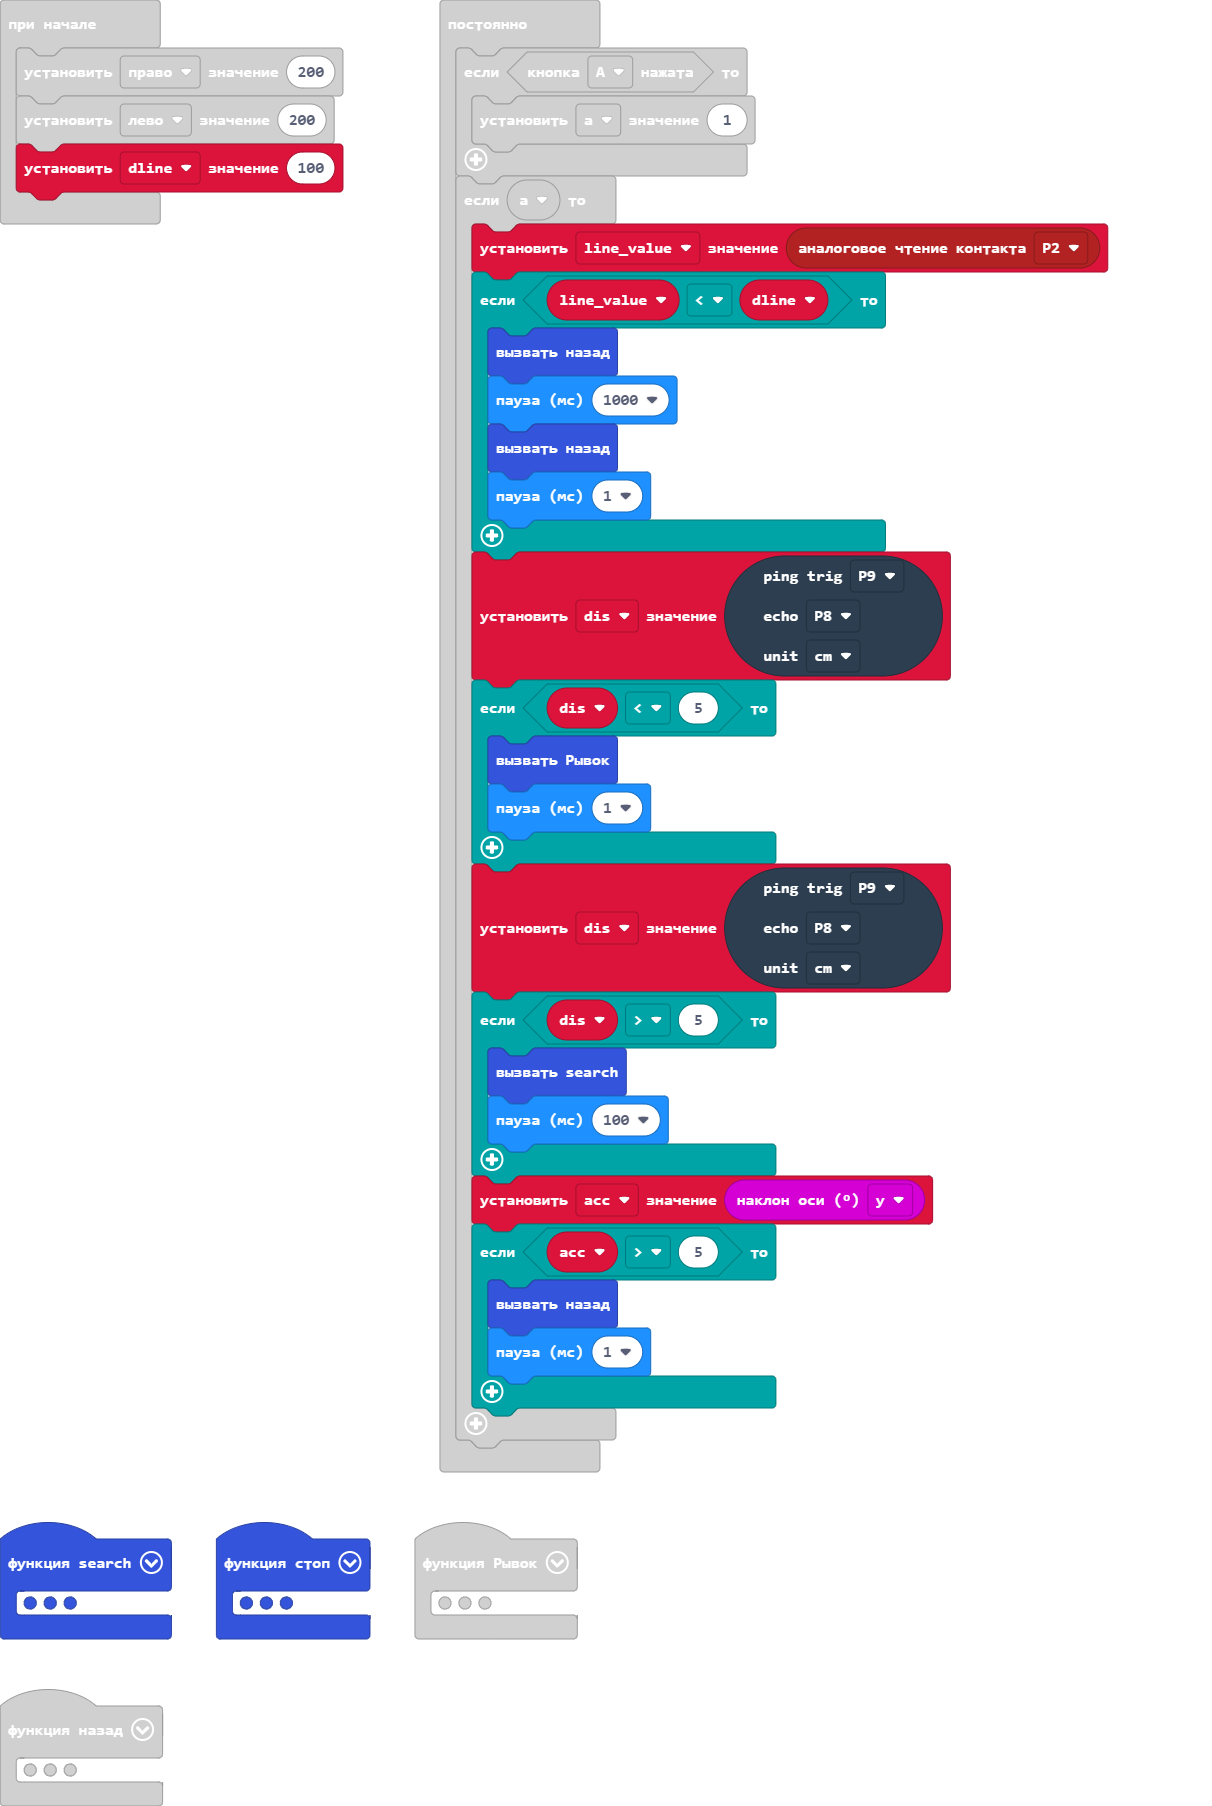
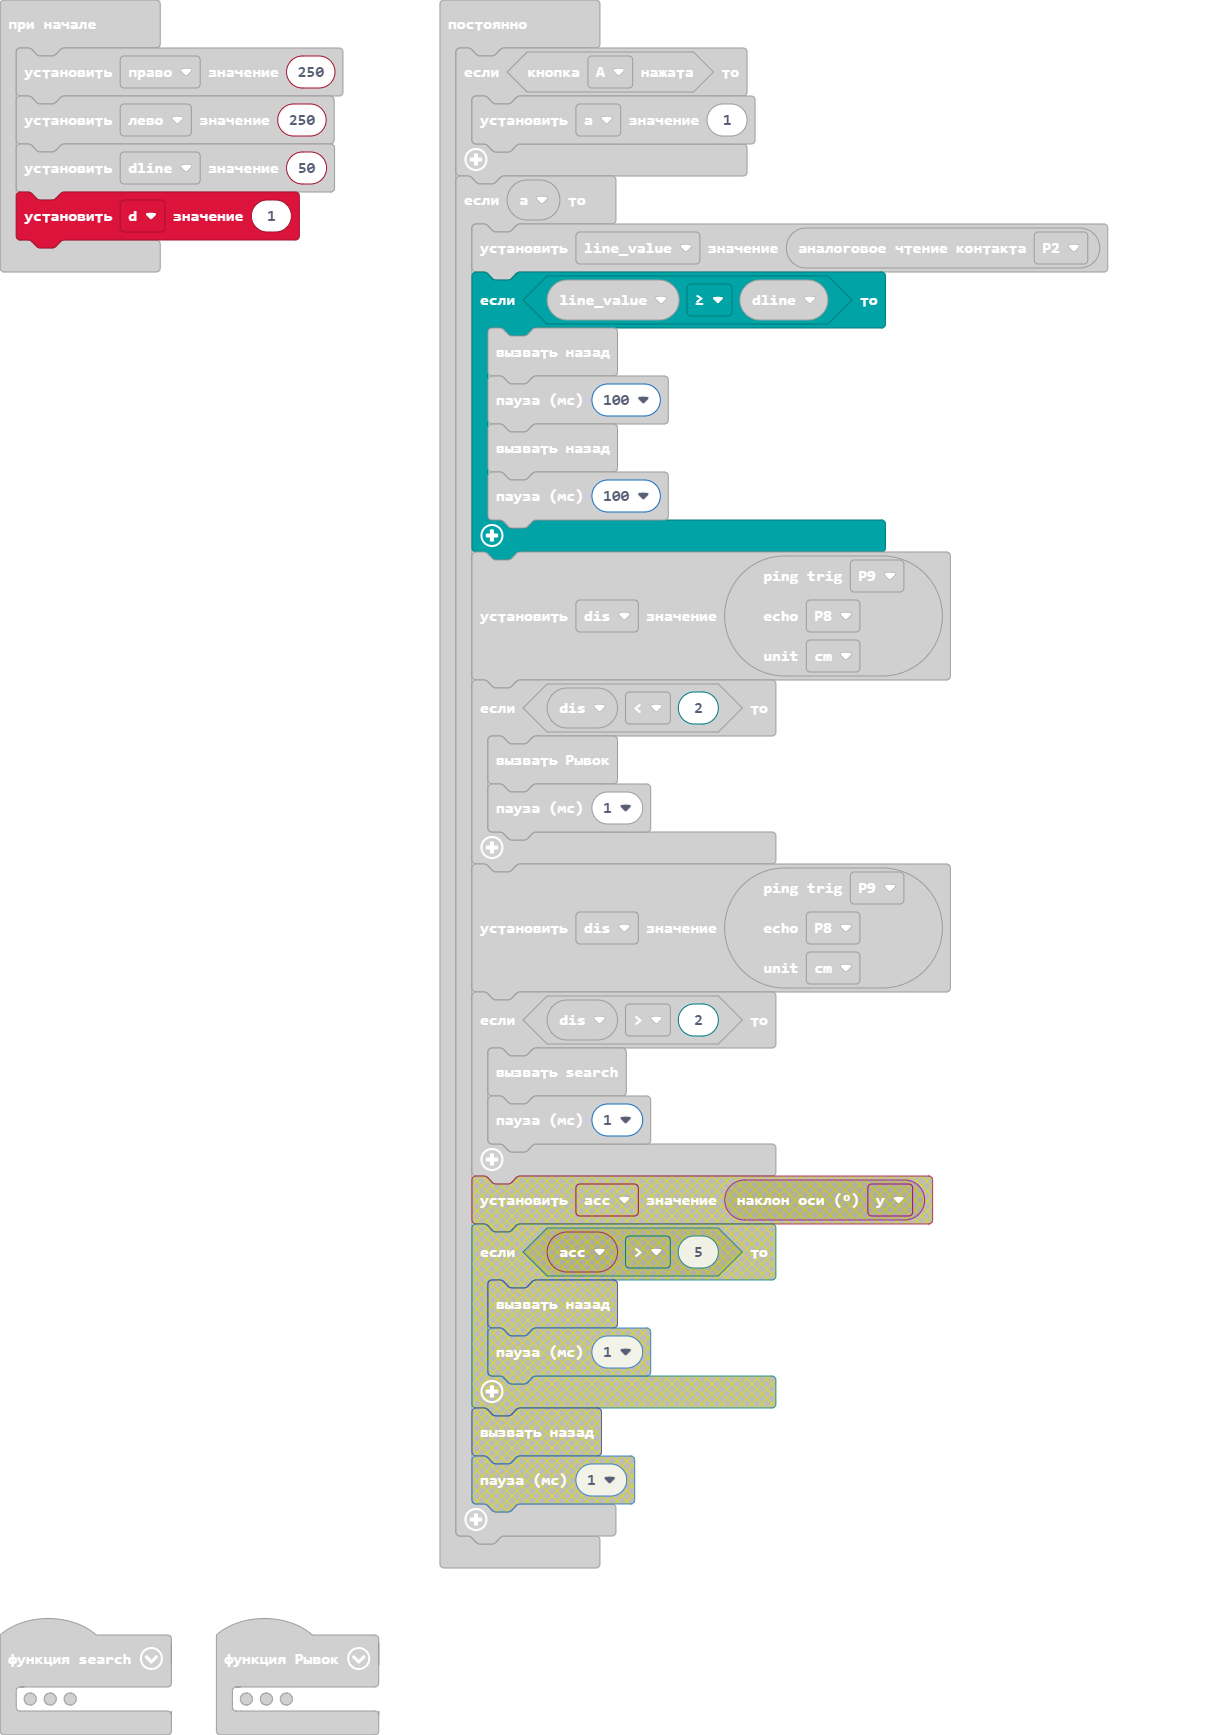
Обновить main.blocks, main.ts

Changed region(s): [[0.3358, 0.0, 0.9158, 0.9337], [0.0, 0.8403, 0.3358, 1.0], [0.0, 0.0311, 0.3053, 0.1556]]

diff --git a/main.ts b/main.ts
@@ -15,12 +15,12 @@ function Вперед () {
     pins.digitalWritePin(DigitalPin.P16, 0)
 }
 function search () {
-    pins.analogWritePin(AnalogPin.P0, право)
-    pins.analogWritePin(AnalogPin.P1, лево)
+    pins.analogWritePin(AnalogPin.P0, 400)
     pins.digitalWritePin(DigitalPin.P13, 1)
     pins.digitalWritePin(DigitalPin.P14, 0)
     pins.digitalWritePin(DigitalPin.P15, 0)
     pins.digitalWritePin(DigitalPin.P16, 1)
+    pins.analogWritePin(AnalogPin.P1, 400)
     basic.showLeds(`
         # # # # #
         # . . . .
@@ -38,8 +38,8 @@ function Право () {
     pins.analogWritePin(AnalogPin.P1, лево)
 }
 function Рывок () {
-    pins.analogWritePin(AnalogPin.P0, 900)
-    pins.analogWritePin(AnalogPin.P1, 900)
+    pins.analogWritePin(AnalogPin.P0, 400)
+    pins.analogWritePin(AnalogPin.P1, 400)
     pins.digitalWritePin(DigitalPin.P13, 1)
     pins.digitalWritePin(DigitalPin.P14, 0)
     pins.digitalWritePin(DigitalPin.P15, 1)
@@ -75,33 +75,33 @@ function Лево () {
     pins.digitalWritePin(DigitalPin.P16, 0)
     pins.analogWritePin(AnalogPin.P1, лево)
 }
-let acc = 0
 let dis = 0
 let line_value = 0
 let a = 0
 let лево = 0
 let право = 0
-право = 200
-лево = 200
-let dline = 100
+право = 250
+лево = 250
+let dline = 50
+let d = 1
 basic.forever(function () {
     if (input.buttonIsPressed(Button.A)) {
         a = 1
     }
     if (a) {
         line_value = pins.analogReadPin(AnalogPin.P2)
-        if (line_value < dline) {
+        if (line_value >= dline) {
             назад()
-            basic.pause(1000)
+            basic.pause(100)
             назад()
-            basic.pause(1)
+            basic.pause(100)
         }
         dis = sonar.ping(
         DigitalPin.P9,
         DigitalPin.P8,
         PingUnit.Centimeters
         )
-        if (dis < 5) {
+        if (dis < 2) {
             Рывок()
             basic.pause(1)
         }
@@ -110,13 +110,8 @@ basic.forever(function () {
         DigitalPin.P8,
         PingUnit.Centimeters
         )
-        if (dis > 5) {
+        if (dis > 2) {
             search()
-            basic.pause(100)
-        }
-        acc = input.rotation(Rotation.Pitch)
-        if (acc > 5) {
-            назад()
             basic.pause(1)
         }
     }
